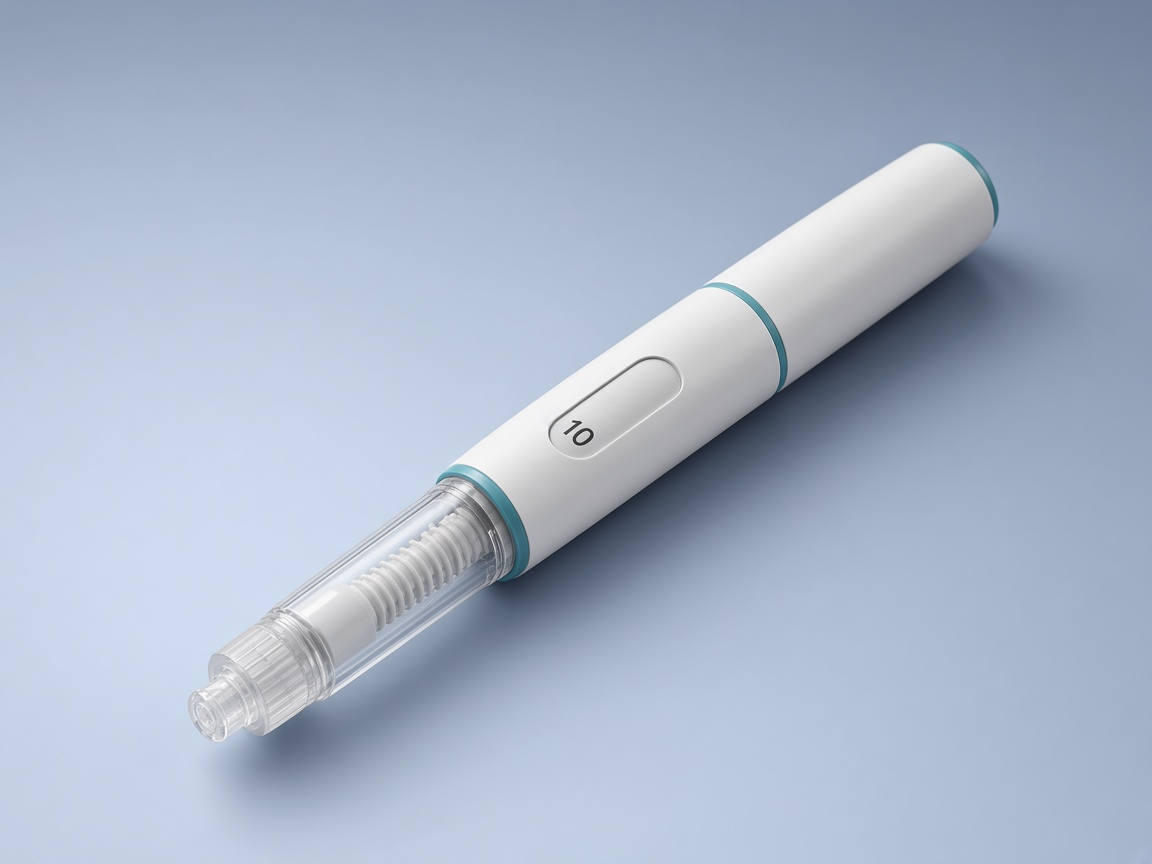
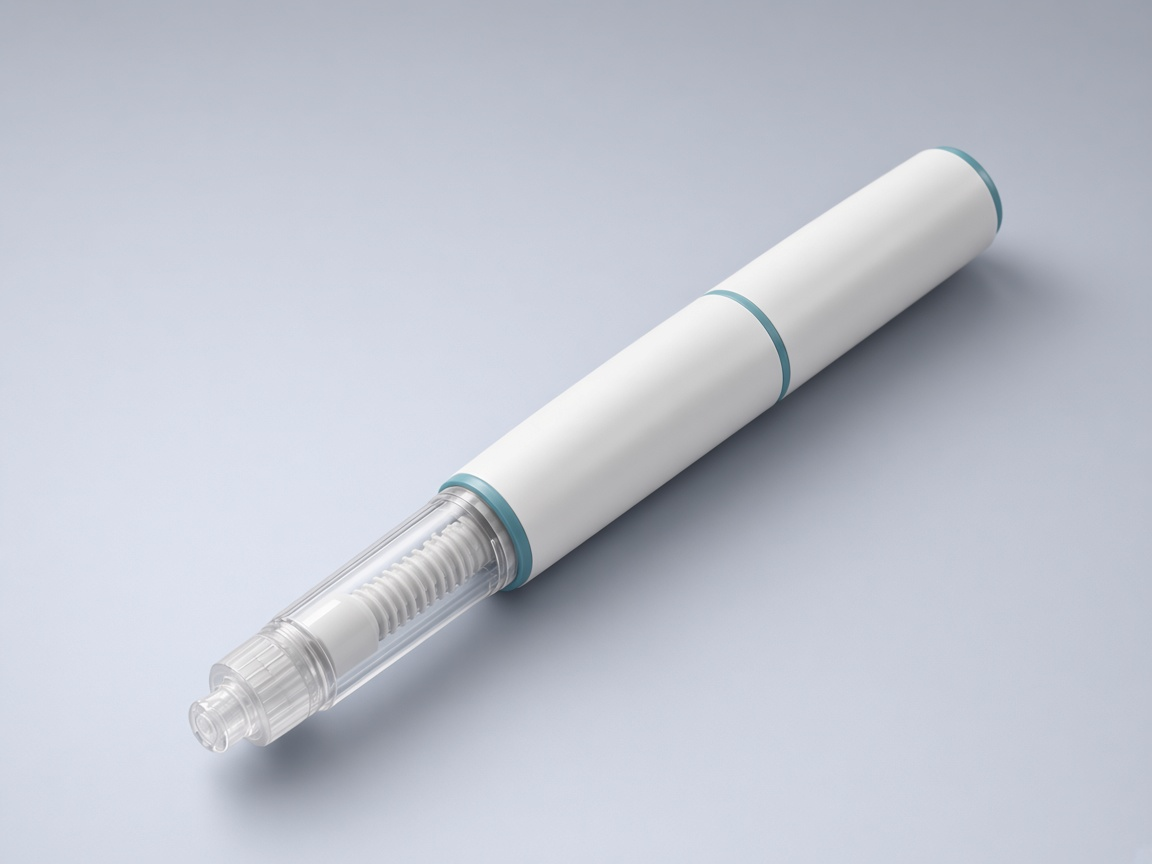
Restore photorealistic pen with the drug name on the barrel.
Swap the flat SVG for the studio render and print brand + substance along the pen body.

diff --git a/src/components/PenIllustration.tsx b/src/components/PenIllustration.tsx
@@ -1,3 +1,4 @@
+import Image from "next/image";
 import type { MedicationMechanism } from "@/content/medications";
 
 type Tone = "teal" | "slate" | "sand";
@@ -8,41 +9,11 @@ function toneForMechanism(mechanism: MedicationMechanism): Tone {
   return "sand";
 }
 
-function toneVars(tone: Tone) {
-  if (tone === "slate") {
-    return {
-      accent: "#516574",
-      accentDeep: "#3d4f5c",
-      body: "#f4f7f9",
-      bodyEdge: "#d5dee5",
-      backdrop: ["#eef2f5", "#d9e2e8"],
-      ink: "#0e1a24",
-    };
-  }
-  if (tone === "sand") {
-    return {
-      accent: "#8e765d",
-      accentDeep: "#6f5a44",
-      body: "#fbf8f3",
-      bodyEdge: "#e4d9c8",
-      backdrop: ["#f4efe8", "#e5ddd1"],
-      ink: "#241a12",
-    };
-  }
-  return {
-    accent: "#0a5c63",
-    accentDeep: "#084a50",
-    body: "#f7fbfb",
-    bodyEdge: "#cfe0e2",
-    backdrop: ["#eef4f5", "#d9e6e8"],
-    ink: "#0e1a24",
-  };
-}
-
-function brandFontSize(name: string) {
-  if (name.length > 12) return 22;
-  if (name.length > 9) return 26;
-  return 30;
+/** Soft colour grading so each mechanism feels distinct without brand packaging. */
+function toneFilter(tone: Tone) {
+  if (tone === "slate") return "hue-rotate(198deg) saturate(0.72) brightness(1.02)";
+  if (tone === "sand") return "hue-rotate(28deg) saturate(0.78) brightness(1.04)";
+  return "none";
 }
 
 export function PenIllustration({
@@ -51,6 +22,7 @@ export function PenIllustration({
   substance,
   title,
   className,
+  priority = false,
 }: {
   mechanism: MedicationMechanism;
   brandName: string;
@@ -59,112 +31,31 @@ export function PenIllustration({
   className?: string;
   priority?: boolean;
 }) {
-  const tone = toneVars(toneForMechanism(mechanism));
-  const uid = brandName.toLowerCase().replace(/[^a-z0-9]+/g, "-");
+  const tone = toneForMechanism(mechanism);
   const alt =
     title ??
     `Ilustração editorial da caneta de ${brandName}${
       substance ? ` (${substance})` : ""
     }`;
-  const nameSize = brandFontSize(brandName);
 
   return (
-    <div className={`pen-shot ${className ?? ""}`} data-tone={toneForMechanism(mechanism)}>
-      <svg
-        viewBox="0 0 800 600"
-        role="img"
-        aria-label={alt}
-        className="pen-shot-svg"
-      >
-        <title>{alt}</title>
-        <defs>
-          <linearGradient id={`bg-${uid}`} x1="0" y1="0" x2="1" y2="1">
-            <stop offset="0%" stopColor={tone.backdrop[0]} />
-            <stop offset="100%" stopColor={tone.backdrop[1]} />
-          </linearGradient>
-          <linearGradient id={`body-${uid}`} x1="0" y1="0" x2="0" y2="1">
-            <stop offset="0%" stopColor="#ffffff" />
-            <stop offset="55%" stopColor={tone.body} />
-            <stop offset="100%" stopColor={tone.bodyEdge} />
-          </linearGradient>
-          <linearGradient id={`metal-${uid}`} x1="0" y1="0" x2="0" y2="1">
-            <stop offset="0%" stopColor="#c5ced4" />
-            <stop offset="100%" stopColor="#8a97a1" />
-          </linearGradient>
-          <filter id={`shadow-${uid}`} x="-20%" y="-20%" width="140%" height="140%">
-            <feDropShadow dx="0" dy="18" stdDeviation="16" floodColor="#0e1a24" floodOpacity="0.18" />
-          </filter>
-        </defs>
-
-        <rect width="800" height="600" rx="28" fill={`url(#bg-${uid})`} />
-        <ellipse cx="420" cy="480" rx="220" ry="28" fill="#0e1a24" opacity="0.07" />
-
-        <g transform="translate(120 318) rotate(-34)" filter={`url(#shadow-${uid})`}>
-          {/* needle hub / tip */}
-          <rect x="0" y="28" width="52" height="28" rx="8" fill="#e8eef1" stroke={tone.bodyEdge} />
-          <rect x="44" y="22" width="70" height="40" rx="12" fill="#dce6ea" opacity="0.95" />
-          <rect x="52" y="30" width="48" height="24" rx="6" fill="#f7fafb" opacity="0.55" />
-
-          {/* clear reservoir */}
-          <rect x="108" y="16" width="110" height="52" rx="14" fill="#eef5f7" stroke={tone.bodyEdge} />
-          <rect x="120" y="28" width="78" height="8" rx="4" fill={tone.accent} opacity="0.35" />
-          <rect x="126" y="42" width="54" height="6" rx="3" fill={tone.ink} opacity="0.12" />
-
-          {/* white barrel with printed name */}
-          <rect x="210" y="8" width="280" height="68" rx="18" fill={`url(#body-${uid})`} stroke={tone.bodyEdge} />
-          <rect x="228" y="20" width="200" height="44" rx="10" fill="#ffffff" opacity="0.92" />
-          <text
-            x="328"
-            y={substance ? 40 : 48}
-            textAnchor="middle"
-            fontFamily="Outfit, system-ui, sans-serif"
-            fontWeight="700"
-            fontSize={nameSize}
-            letterSpacing="-0.04em"
-            fill={tone.ink}
-          >
-            {brandName}
-          </text>
-          {substance ? (
-            <text
-              x="328"
-              y="56"
-              textAnchor="middle"
-              fontFamily="Outfit, system-ui, sans-serif"
-              fontWeight="500"
-              fontSize="13"
-              fill={tone.ink}
-              opacity="0.55"
-            >
-              {substance}
-            </text>
-          ) : null}
-
-          {/* accent ring */}
-          <rect x="490" y="8" width="16" height="68" rx="4" fill={tone.accent} />
-
-          {/* dose / metal section */}
-          <rect x="506" y="12" width="96" height="60" rx="14" fill={`url(#metal-${uid})`} />
-          <rect x="526" y="26" width="56" height="32" rx="8" fill="#f8fafb" opacity="0.9" />
-          <text
-            x="554"
-            y="48"
-            textAnchor="middle"
-            fontFamily="Outfit, system-ui, sans-serif"
-            fontWeight="650"
-            fontSize="16"
-            fill={tone.ink}
-            opacity="0.7"
-          >
-            0
-          </text>
-
-          {/* end cap / button */}
-          <rect x="602" y="18" width="48" height="48" rx="14" fill={`url(#metal-${uid})`} />
-          <circle cx="626" cy="42" r="14" fill={tone.accent} />
-          <circle cx="626" cy="42" r="7" fill={tone.accentDeep} />
-        </g>
-      </svg>
+    <div className={`pen-shot ${className ?? ""}`} data-tone={tone}>
+      <Image
+        src="/illustrations/hero-pen.png"
+        alt={alt}
+        width={1152}
+        height={864}
+        className="pen-shot-img"
+        style={{ filter: toneFilter(tone) }}
+        priority={priority}
+      />
+      {/* Printed on the white barrel — matches the pen’s diagonal */}
+      <div className="pen-onbody" aria-hidden>
+        <strong className={brandName.length > 10 ? "is-long" : undefined}>
+          {brandName}
+        </strong>
+        {substance ? <span>{substance}</span> : null}
+      </div>
     </div>
   );
 }
@@ -181,6 +72,7 @@ export function PenCluster({
       brandName="GLP-1"
       substance="classe injectável"
       title={title}
+      priority
     />
   );
 }

diff --git a/src/app/globals.css b/src/app/globals.css
@@ -473,10 +473,52 @@ img {
     linear-gradient(160deg, #f4f7f9 0%, #e3ebef 55%, #d5e0e5 100%);
 }
 
-.pen-shot-svg {
-  display: block;
+.pen-shot-img,
+.pen-cluster-img {
   width: 100%;
   height: 100%;
+  object-fit: cover;
+  object-position: center;
+}
+
+/* Name printed on the realistic pen barrel */
+.pen-onbody {
+  position: absolute;
+  left: 52%;
+  top: 42%;
+  z-index: 2;
+  display: flex;
+  flex-direction: column;
+  align-items: center;
+  gap: 0.12rem;
+  transform: translate(-50%, -50%) rotate(-33deg);
+  transform-origin: center;
+  pointer-events: none;
+  text-align: center;
+  color: #141c24;
+  text-shadow:
+    0 1px 0 rgba(255, 255, 255, 0.7),
+    0 0 10px rgba(255, 255, 255, 0.45);
+}
+
+.pen-onbody strong {
+  font-size: clamp(1.05rem, 2.6vw, 1.55rem);
+  font-weight: 700;
+  letter-spacing: -0.035em;
+  line-height: 1;
+  white-space: nowrap;
+}
+
+.pen-onbody strong.is-long {
+  font-size: clamp(0.9rem, 2.1vw, 1.2rem);
+}
+
+.pen-onbody span {
+  font-size: clamp(0.68rem, 1.3vw, 0.85rem);
+  font-weight: 500;
+  letter-spacing: 0.01em;
+  color: rgba(18, 24, 32, 0.62);
+  white-space: nowrap;
 }
 
 .pen-shot[data-tone="slate"] {
@@ -485,6 +527,10 @@ img {
 
 .pen-shot[data-tone="sand"] {
   background: linear-gradient(160deg, #f7f4ef 0%, #e8e0d4 100%);
+}
+
+.pen-shot[data-tone="teal"] .pen-onbody strong {
+  color: #084a50;
 }
 
 .article-hero {
